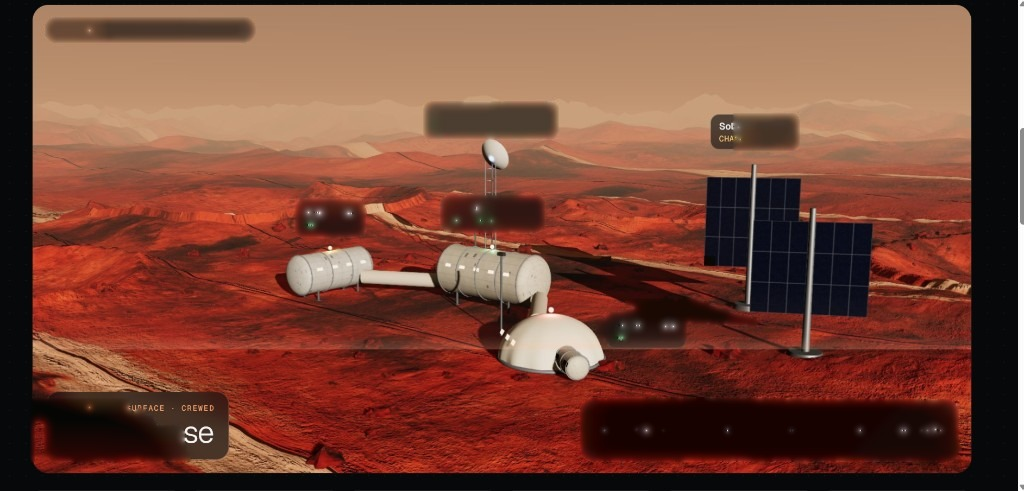
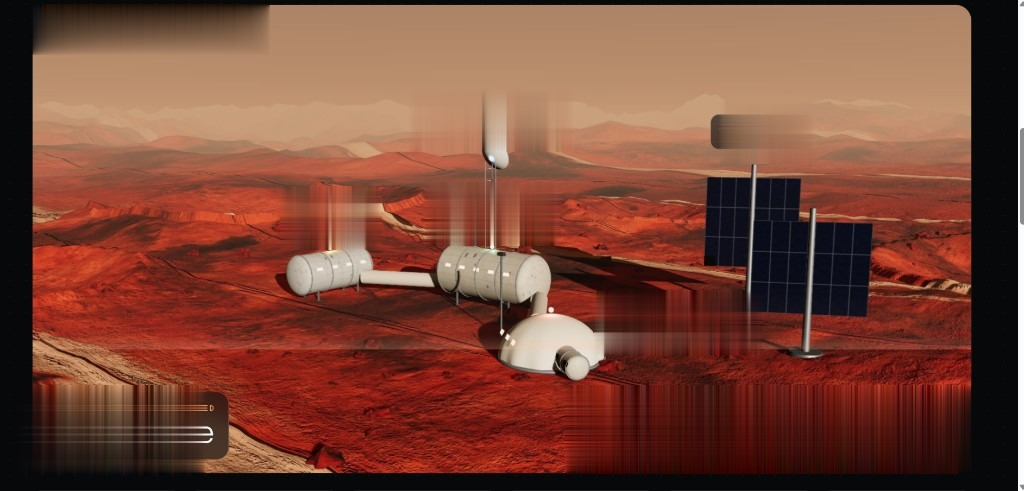
fixing mars page

diff --git a/.tmp-mars-inspect/CleanPlate.cs b/.tmp-mars-inspect/CleanPlate.cs
@@ -5,7 +5,7 @@ using System.Drawing.Imaging;
 using System.Linq;
 using System.Runtime.InteropServices;
 
-public static class CleanPlate {
+public static class CleanPlate5 {
   public static string Run(string path, string outPath, float yScale) {
     using (Bitmap src = new Bitmap(path)) {
       int width = src.Width;
@@ -22,8 +22,8 @@ public static class CleanPlate {
         new int[] {400, 95, 630, 168, 520, 122, 38},
         new int[] {260, 190, 390, 250, 320, 208, 40},
         new int[] {430, 175, 610, 255, 490, 205, 40},
-        new int[] {600, 300, 760, 365, 650, 318, 34},
-        new int[] {600, 300, 760, 365, 680, 330, 34},
+        new int[] {610, 305, 745, 358, 650, 318, 28},
+        new int[] {610, 305, 745, 358, 680, 330, 28},
         new int[] {735, 95, 970, 170, 780, 115, 36},
         new int[] {735, 95, 970, 170, 760, 140, 36},
         new int[] {20, 400, 330, 482, 110, 425, 42},
@@ -31,47 +31,74 @@ public static class CleanPlate {
         new int[] {570, 400, 980, 482, 700, 425, 40},
         new int[] {570, 400, 980, 482, 800, 445, 40}
       };
+      System.Text.StringBuilder log = new System.Text.StringBuilder();
       for (int j = 0; j < jobs.Length; j++) {
         int[] job = jobs[j];
         int y0 = Scale(job[1], yScale, height);
         int y1 = Scale(job[3], yScale, height);
         int sy = Scale(job[5], yScale, height);
-        Flood(bytes, mask, stride, width, height, job[4], sy, job[0], y0, job[2], y1, job[6]);
-      }
-      bool[] grown = (bool[])mask.Clone();
-      for (int y = 2; y < height - 2; y++) {
-        for (int x = 2; x < width - 2; x++) {
-          if (!mask[y * width + x]) continue;
-          for (int dy = -2; dy <= 2; dy++) {
-            for (int dx = -2; dx <= 2; dx++) grown[(y + dy) * width + (x + dx)] = true;
+        bool[] local = new bool[width * height];
+        Flood(bytes, local, stride, width, height, job[4], sy, job[0], y0, job[2], y1, job[6]);
+        int minx = width, miny = height, maxx = 0, maxy = 0, hits = 0;
+        for (int y = y0; y <= y1; y++) {
+          for (int x = job[0]; x <= job[2]; x++) {
+            if (!local[y * width + x]) continue;
+            hits++;
+            if (x < minx) minx = x;
+            if (y < miny) miny = y;
+            if (x > maxx) maxx = x;
+            if (y > maxy) maxy = y;
           }
         }
+        if (hits < 30) continue;
+        minx = Math.Max(1, minx - 16);
+        miny = Math.Max(1, miny - 14);
+        maxx = Math.Min(width - 2, maxx + 16);
+        maxy = Math.Min(height - 2, maxy + 14);
+        log.Append(minx).Append(",").Append(miny).Append(" ").Append(maxx - minx).Append("x").Append(maxy - miny).Append("; ");
+        for (int y = miny; y <= maxy; y++) {
+          for (int x = minx; x <= maxx; x++) mask[y * width + x] = true;
+        }
       }
-      mask = grown;
       byte[] cur = (byte[])bytes.Clone();
-      byte[] nxt = (byte[])bytes.Clone();
-      int[] ox = new int[] {1, -1, 0, 0};
-      int[] oy = new int[] {0, 0, 1, -1};
-      for (int iter = 0; iter < 240; iter++) {
-        for (int y = 1; y < height - 1; y++) {
-          for (int x = 1; x < width - 1; x++) {
-            if (!mask[y * width + x]) continue;
-            int rs = 0, gs = 0, bs = 0;
-            for (int d = 0; d < 4; d++) {
-              int i = (y + oy[d]) * stride + (x + ox[d]) * 3;
-              bs += cur[i];
-              gs += cur[i + 1];
-              rs += cur[i + 2];
-            }
-            int o = y * stride + x * 3;
-            nxt[o] = (byte)(bs / 4);
-            nxt[o + 1] = (byte)(gs / 4);
-            nxt[o + 2] = (byte)(rs / 4);
+      for (int y = 1; y < height - 1; y++) {
+        for (int x = 1; x < width - 1; x++) {
+          if (!mask[y * width + x]) continue;
+          int rs = 0, gs = 0, bs = 0, ws = 0;
+          for (int yy = y; yy >= 0; yy--) {
+            if (mask[yy * width + x]) continue;
+            int i = yy * stride + x * 3;
+            int wgt = 1024 / (y - yy);
+            bs += cur[i] * wgt; gs += cur[i + 1] * wgt; rs += cur[i + 2] * wgt; ws += wgt;
+            break;
           }
+          for (int yy = y; yy < height; yy++) {
+            if (mask[yy * width + x]) continue;
+            int i = yy * stride + x * 3;
+            int wgt = 1024 / (yy - y);
+            bs += cur[i] * wgt; gs += cur[i + 1] * wgt; rs += cur[i + 2] * wgt; ws += wgt;
+            break;
+          }
+          for (int xx = x; xx >= 0; xx--) {
+            if (mask[y * width + xx]) continue;
+            int i = y * stride + xx * 3;
+            int wgt = 1024 / (x - xx);
+            bs += cur[i] * wgt; gs += cur[i + 1] * wgt; rs += cur[i + 2] * wgt; ws += wgt;
+            break;
+          }
+          for (int xx = x; xx < width; xx++) {
+            if (mask[y * width + xx]) continue;
+            int i = y * stride + xx * 3;
+            int wgt = 1024 / (xx - x);
+            bs += cur[i] * wgt; gs += cur[i + 1] * wgt; rs += cur[i + 2] * wgt; ws += wgt;
+            break;
+          }
+          if (ws == 0) continue;
+          int o = y * stride + x * 3;
+          cur[o] = (byte)(bs / ws);
+          cur[o + 1] = (byte)(gs / ws);
+          cur[o + 2] = (byte)(rs / ws);
         }
-        byte[] swap = cur;
-        cur = nxt;
-        nxt = swap;
       }
       Marshal.Copy(cur, 0, data.Scan0, cur.Length);
       src.UnlockBits(data);
@@ -85,7 +112,7 @@ public static class CleanPlate {
       src.Save(outPath, jpeg, ep);
       int count = 0;
       for (int i = 0; i < mask.Length; i++) if (mask[i]) count++;
-      return "masked " + count;
+      return "masked " + count + " " + log.ToString();
     }
   }
 
